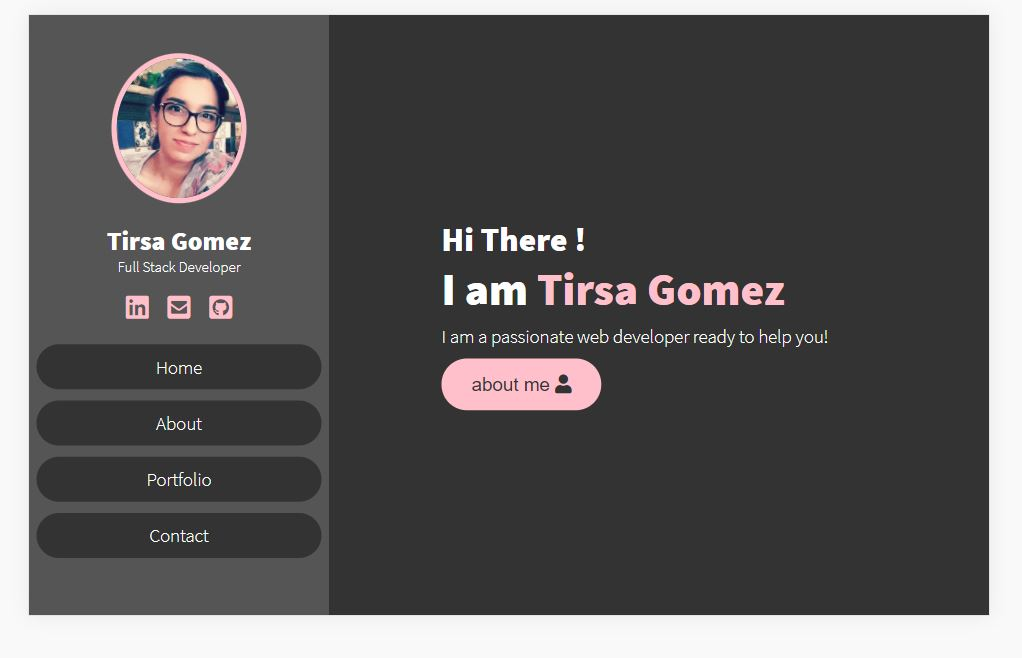
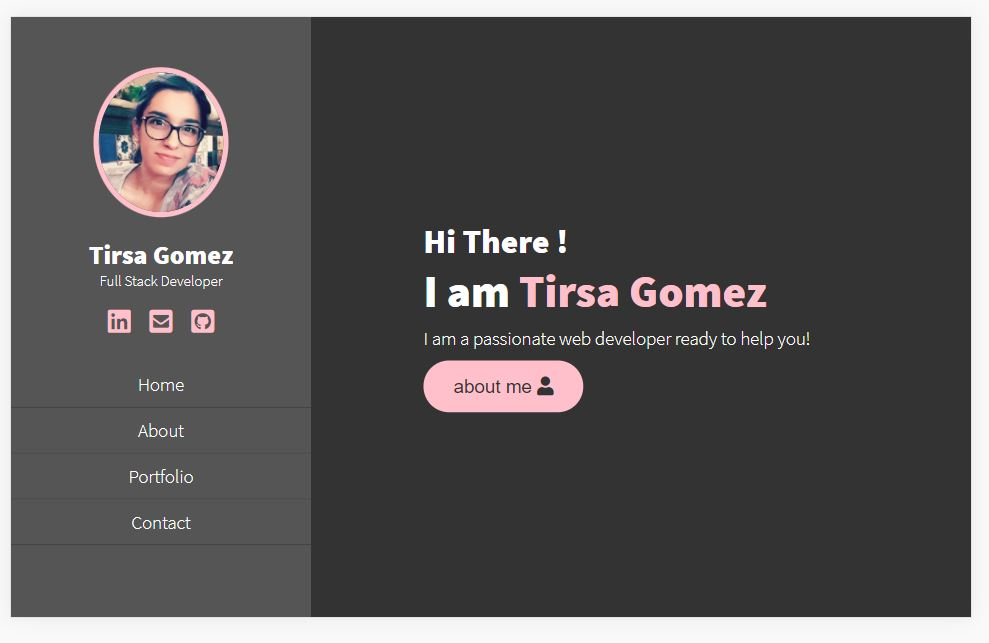
updated image screenshot in README.md file and changed styling of navbar

Changed region(s): [[0.0, 0.0, 1.0, 0.9642], [0.4247, 0.3421, 0.819, 0.6532]]

diff --git a/assets/css/style.css b/assets/css/style.css
@@ -170,17 +170,20 @@ header .navbar {
 
 header .navbar ul {
     list-style: none;
-    padding: 1rem;
+    /* padding: 1rem; */
+    margin: 3rem 0;
+}
+
+header .navbar ul li {
+    border-bottom: 1px solid var(--secondary-color);
 }
 
 header .navbar ul li a {
     display: block;
     padding: 1rem;
-    margin: 1.5rem 0;
-    background: var(--secondary-color);
+    background: var(--light-bg);
     color: var(--light-color);
     font-size: var(--fs-body);
-    border-radius: 5rem;
     text-decoration: none;
 }
 

diff --git a/README.md b/README.md
@@ -4,6 +4,6 @@
 ___
 A portfolio of my work that tells you a little about myself and showcases my projects and talents.
 
-![image](/assets/images/portfolio-screenshot.JPG)
+![image](/assets/images/portfolio-screenshot.jpg)
 
 
